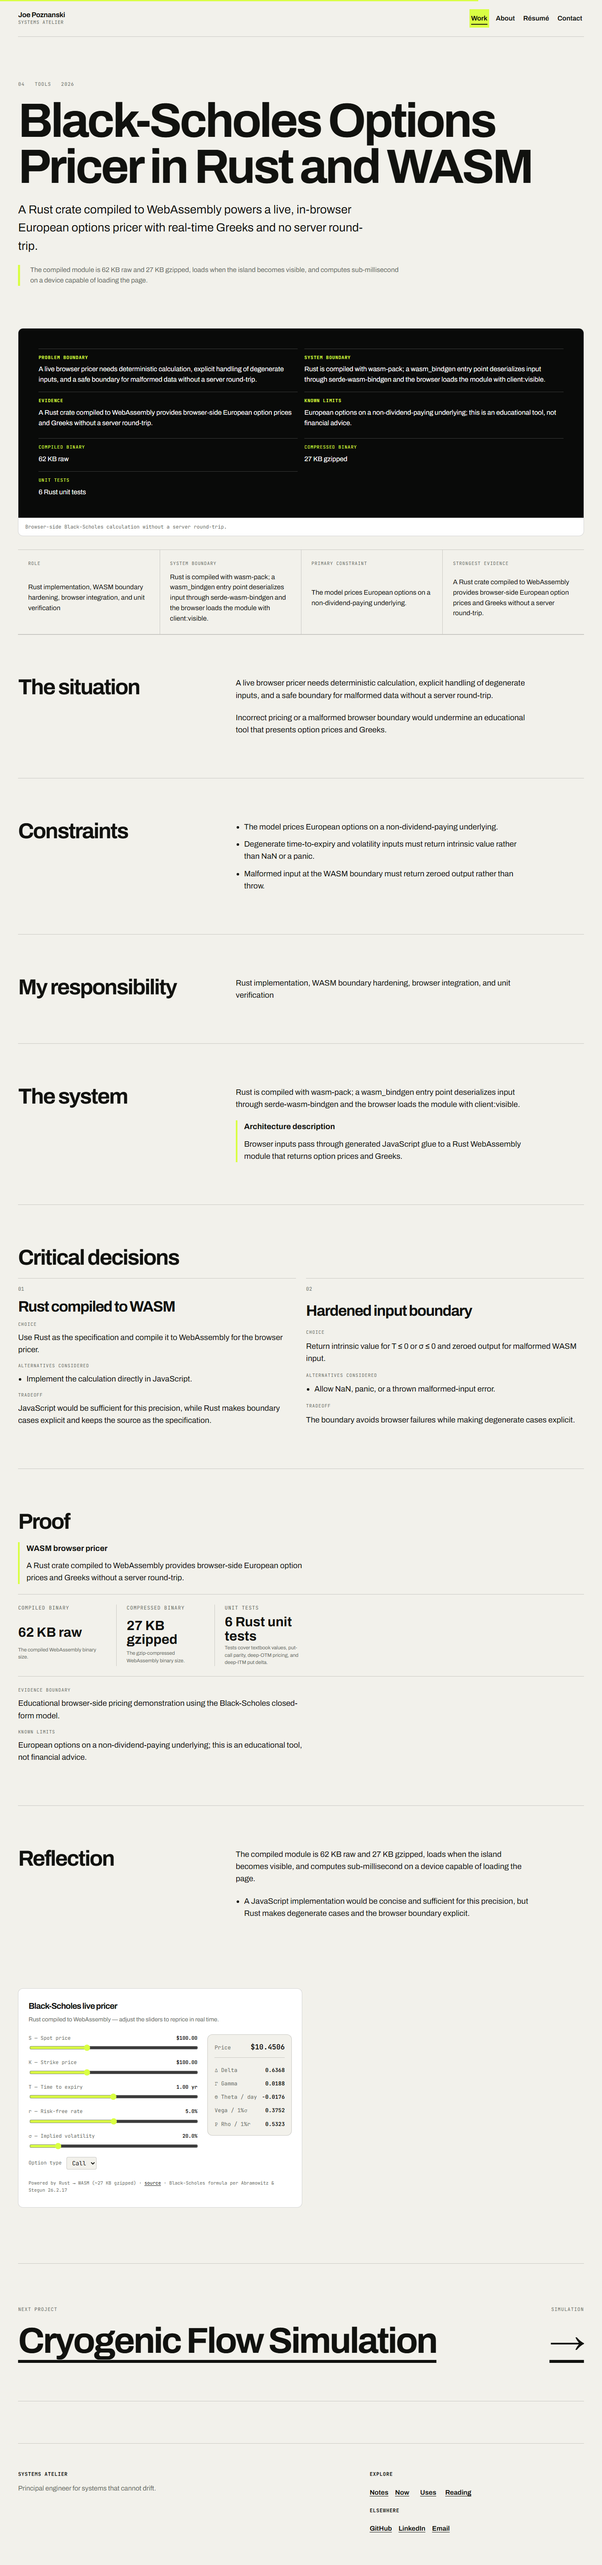
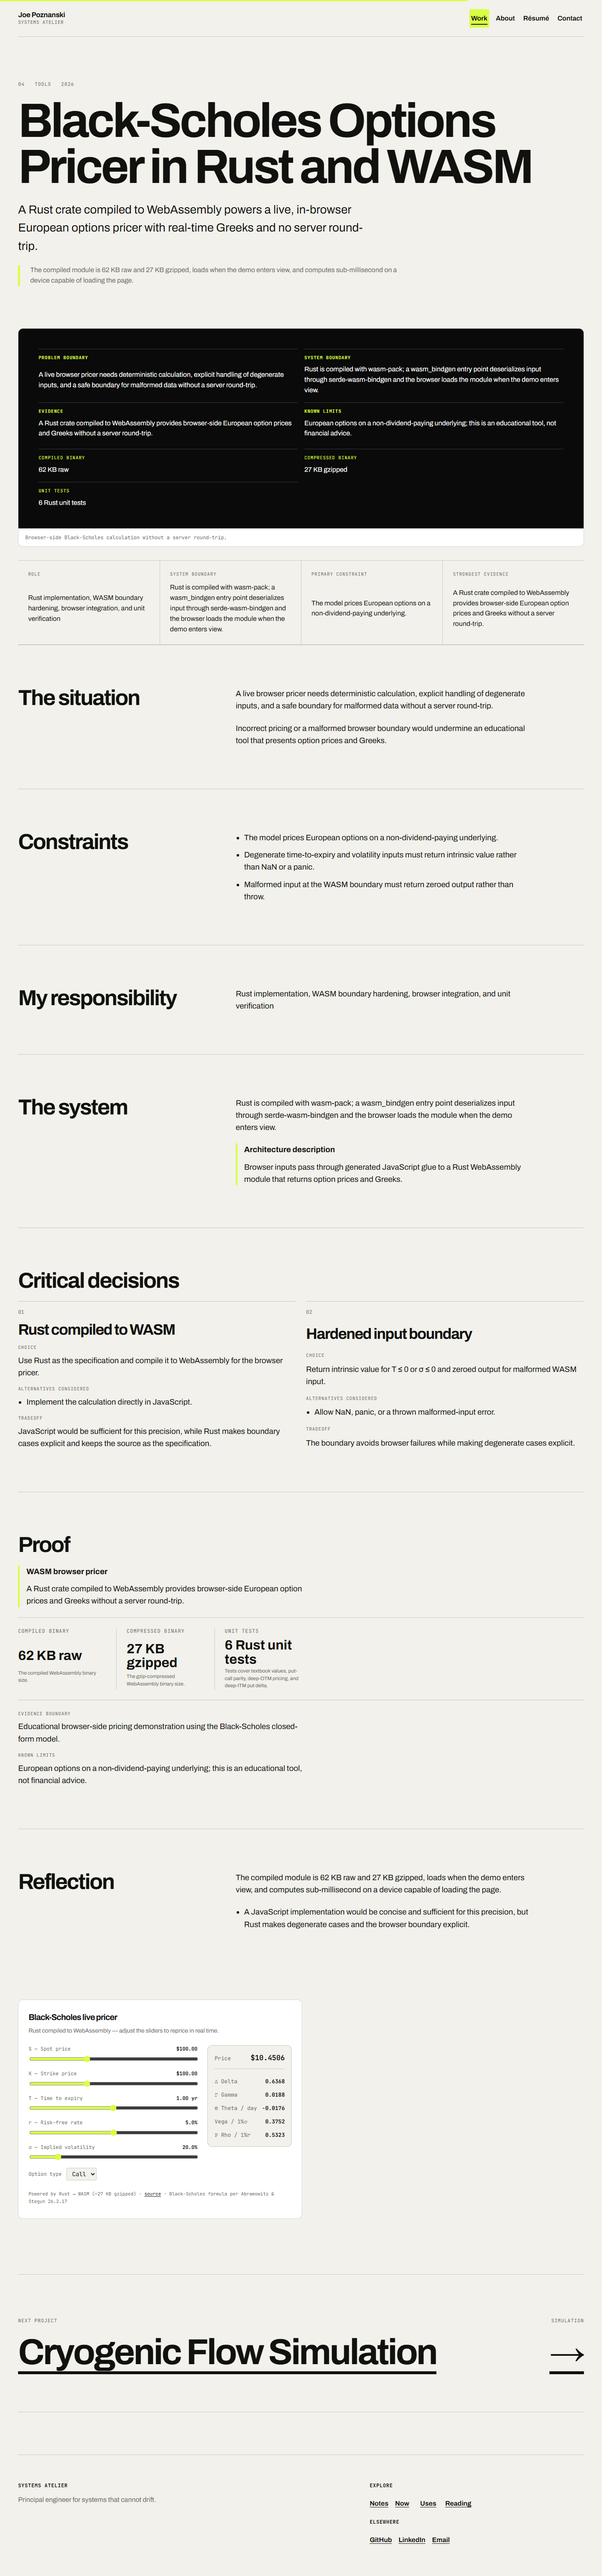
test: complete active Black-Scholes release evidence

diff --git a/tests/e2e/quality-gates.spec.ts b/tests/e2e/quality-gates.spec.ts
@@ -136,6 +136,12 @@ test.describe("Signal / Proof quality @quality", () => {
 		}) => {
 			const response = await page.goto(route.path);
 			expect(response?.status()).toBe(200);
+			const auditedStates: string[] = [];
+			const controls = page.locator("#bs-controls");
+			if (route.path === "/work/black-scholes-wasm/") {
+				await expect(controls).toHaveAttribute("aria-hidden", "true");
+				await expect(controls).toHaveAttribute("inert", "");
+			}
 
 			const accessibilityScanResults = await new AxeBuilder({ page })
 				.withTags(["wcag2a", "wcag2aa", "wcag21a", "wcag21aa"])
@@ -146,6 +152,30 @@ test.describe("Signal / Proof quality @quality", () => {
 				);
 
 			expect(launchBlockingViolations).toEqual([]);
+			auditedStates.push("pre-intersection");
+			if (route.path === "/work/black-scholes-wasm/") {
+				expect(
+					accessibilityScanResults.passes.map((rule) => rule.id),
+				).toContain("aria-hidden-focus");
+
+				await page.locator(".bs-demo").scrollIntoViewIfNeeded();
+				await expect(controls).not.toHaveAttribute("aria-hidden", "true");
+				await expect(controls).not.toHaveAttribute("inert", "");
+				await expect(page.locator("#bs-price")).toHaveText(/^\$\d+\.\d{4}$/);
+
+				const activeControlScanResults = await new AxeBuilder({ page })
+					.include("#bs-controls")
+					.withTags(["wcag2a", "wcag2aa", "wcag21a", "wcag21aa"])
+					.analyze();
+				const activeControlViolations =
+					activeControlScanResults.violations.filter((violation) =>
+						["serious", "critical"].includes(violation.impact ?? ""),
+					);
+
+				expect(activeControlViolations).toEqual([]);
+				auditedStates.push("active-controls");
+				expect(auditedStates).toEqual(["pre-intersection", "active-controls"]);
+			}
 		});
 	}
 

diff --git a/tests/e2e/taste-audit.spec.ts b/tests/e2e/taste-audit.spec.ts
@@ -181,6 +181,15 @@ test.describe("Signal / Proof capture audit @taste-audit", () => {
 						"true",
 					);
 					await expect(page.locator("#bs-price")).not.toHaveText("—");
+					await page.evaluate(() => {
+						document.documentElement.style.scrollBehavior = "auto";
+						document.documentElement.scrollTop = 0;
+						document.body.scrollTop = 0;
+					});
+					expect(
+						await page.evaluate(() => window.scrollY),
+						"full-page evidence starts from the document origin",
+					).toBe(0);
 				}
 				await page.screenshot({
 					fullPage: true,

diff --git a/.superpowers/sdd/2026-08-15-portfolio-signal-proof-rewrite/task-11-report.md b/.superpowers/sdd/2026-08-15-portfolio-signal-proof-rewrite/task-11-report.md
@@ -272,3 +272,29 @@ Final correction evidence:
 No deploy, push, dependency change, secret mutation, or external launch probe occurred.
 
 Final corrective commit message: `fix: align proof loading and reading order`.
+
+## Final active-state evidence correction
+
+The final evidence re-review found that the Black-Scholes runtime correction was green but two release artifacts had not caught up with it. The committed desktop/mobile full-page captures still showed the retired `visible island` / `client:visible` wording, and the route-level Axe check exercised only the inert pre-intersection state.
+
+The accessibility correction was test-first. A required audited-state assertion failed 0/1 with only `pre-intersection` recorded and `active-controls` absent. The final test keeps the original whole-page scan while the demo is below the viewport, positively requires the `aria-hidden-focus` rule to pass while `#bs-controls` is both `aria-hidden` and `inert`, scrolls the demo into view, waits for both attributes to clear and for a real formatted price, and then runs an independent serious/critical Axe scan scoped to the live controls. The exact Black-Scholes case passed 1/1, and the complete current ten-route accessibility matrix passed 10/10.
+
+Only `work-black-scholes-desktop.png` and `work-black-scholes-mobile.png` were regenerated. The first initialized rerun passed 2/2 but visual comparison exposed a capture-only fixed-position artifact because the full-page image began at the demo's scroll offset. A document-origin assertion then failed 0/2 at desktop/mobile offsets 4,430 and 5,770. Capture setup now restores the document origin after the real pricer initializes; the final rerun passed 2/2. Old and new same-viewport images were opened together. The final pair contains the current `loads when the demo enters view` wording throughout, shows the initialized `$10.4506` pricer, contains no skip-link/fixed-rule artifact, and preserves the approved hierarchy, crop, spacing, typography, borders, contrast, and overflow behavior.
+
+Final capture hashes:
+
[2 lines of base64/hex data omitted]
+
+Proportional verification:
+
+- Focused initialized capture audit: 2/2 passed.
+- Full current Axe route matrix: 10/10 passed.
+- Accessibility and visual Node contracts: 5/5 passed.
+- Focused Biome check: 2 files checked with no fixes required after applying the formatter's one-line array layout.
+- Typecheck: 70 files, 0 errors, 0 warnings, 13 existing Zod deprecation hints.
+- Build: 15 pages in 2.14 seconds.
+
+No production source, dependency, visual baseline, deploy, push, or external launch surface changed in this correction.
+
+Final evidence corrective commit message: `test: complete active Black-Scholes release evidence`.
